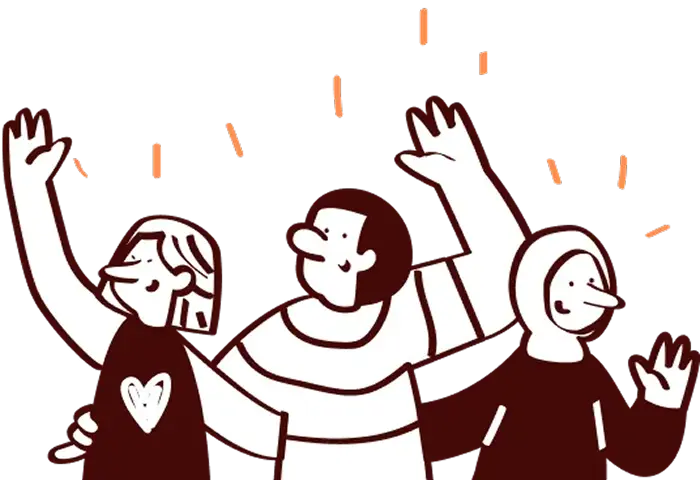
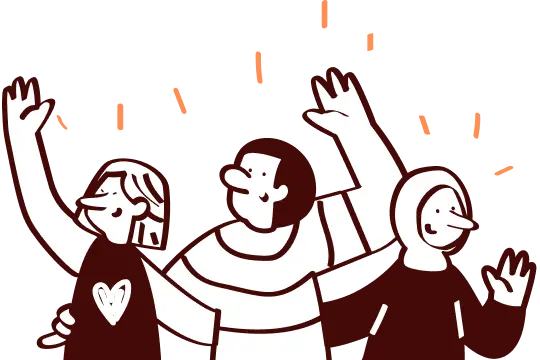
fix: Next.js Image警告を解消
- 画像サイズを調整し、差し替え
- 画像に合わせて height を調整

diff --git a/frontend/src/app/page.tsx b/frontend/src/app/page.tsx
@@ -38,8 +38,8 @@ export default function Home() {
             <Image
               alt=""
               src="/mv_sp.webp"
-              width={264}
-              height={183}
+              width={270}
+              height={180}
               priority
               fetchPriority="high"
               className="block md:hidden"
